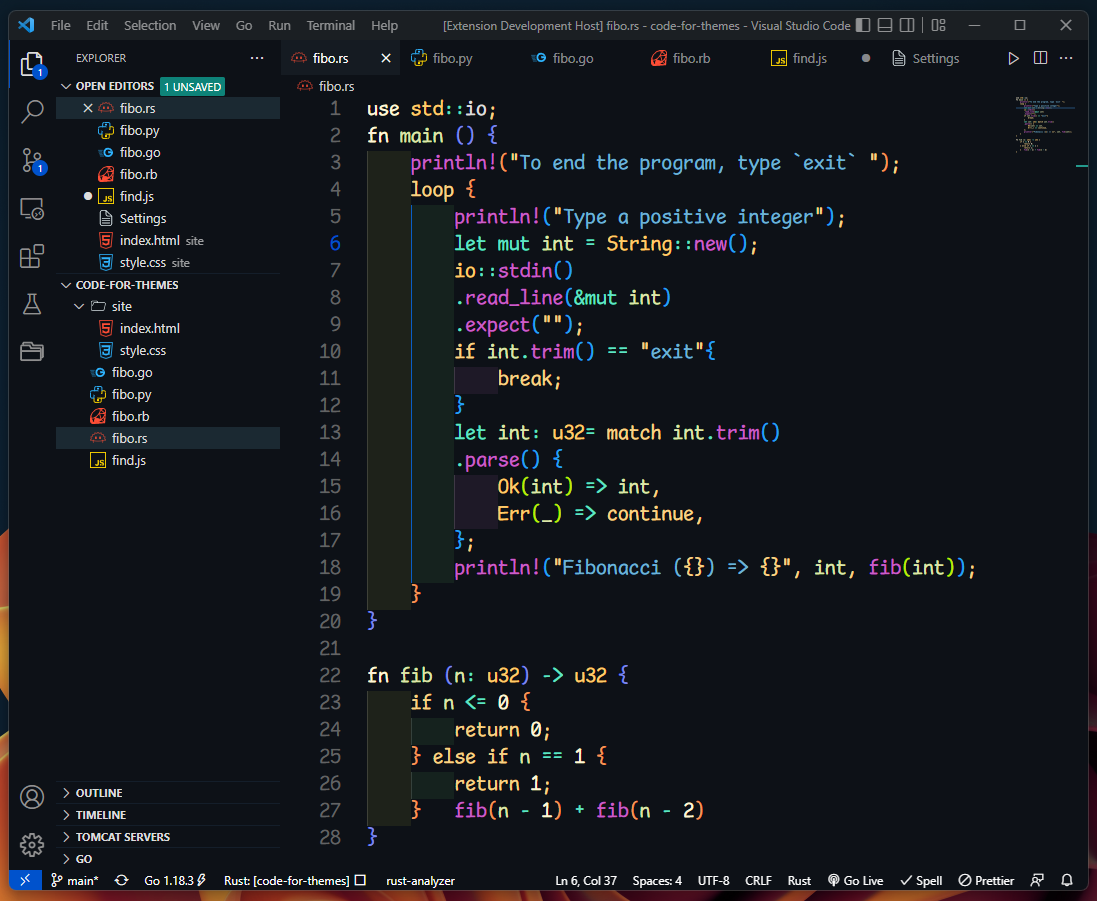
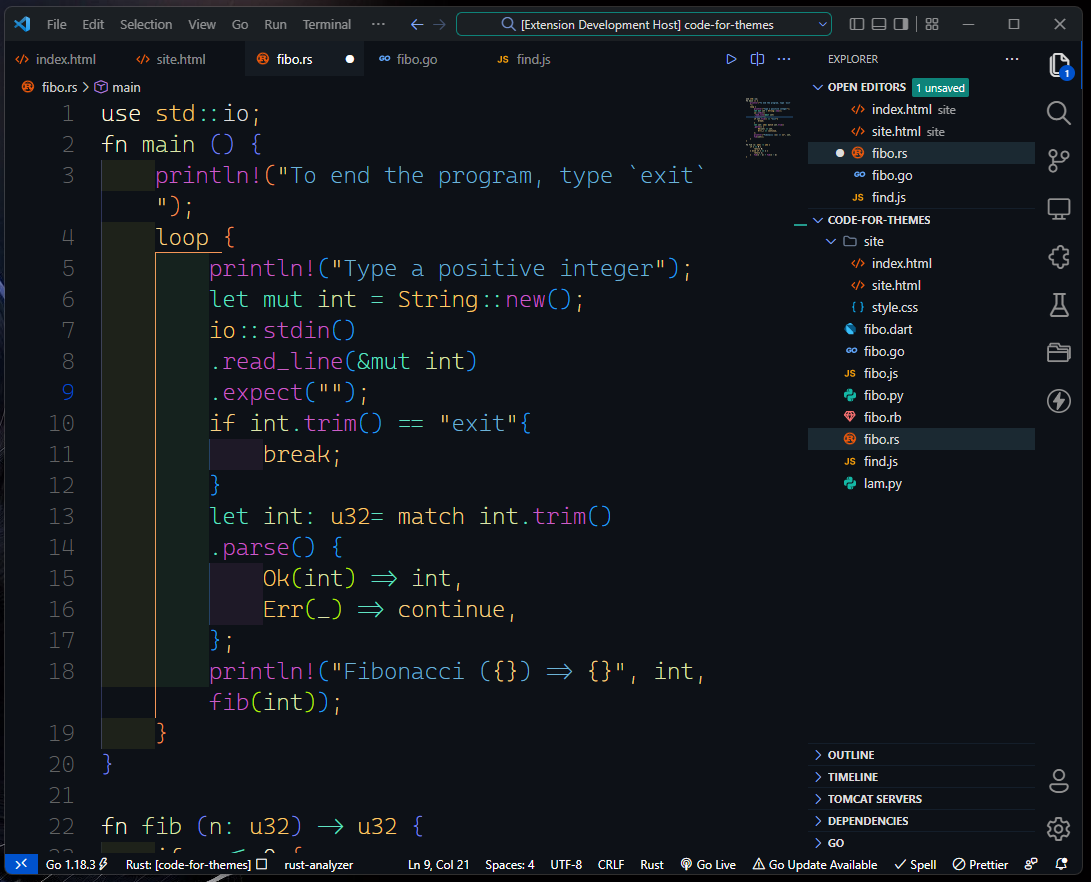
new themes

Changed region(s): [[0.0, 0.0, 1.0, 1.0], [0.4986, 0.8878, 0.5921, 0.9184], [0.6233, 0.8878, 0.6544, 0.9184]]

diff --git a/README.md b/README.md
@@ -2,40 +2,36 @@
 
 **New Theme**
 
-### BlueSpace Sober VIII
+### BlueSpace Sober X
 ![This is a image](https://github.com/yesomac/BlueSpaceVSC/blob/main/img/blue_space_sober10.png?raw=true)
 
+### BlueSpace Sober XI
+![This is a image](https://github.com/yesomac/BlueSpaceVSC/blob/main/img/blue_space_sober11.png?raw=true)
+
+### BlueSpace Sober XII
+![This is a image](https://github.com/yesomac/BlueSpaceVSC/blob/main/img/blue_space_sober10.png?raw=true)
+
+### BlueSpace Sober XIII
+![This is a image](https://github.com/yesomac/BlueSpaceVSC/blob/main/img/blue_space_sober12.png?raw=true)
+
+### BlueSpace Sober XIII
+![This is a image](https://github.com/yesomac/BlueSpaceVSC/blob/main/img/blue_space_sober13.png?raw=true)
+
 ---
+### BlueSpace
+![This is a image]()
 
-### BlueSpace Sober II
-![This is a image](https://github.com/yesomac/BlueSpaceVSC/blob/main/img/blue_space_sober_2.png?raw=true)
+### BlueSpace II
+![This is a image]()
 
-### BlueSpace Sober VI
-![This is a image](https://github.com/yesomac/BlueSpaceVSC/blob/main/img/blue_space_sober_6.png?raw=true)
+### BlueSpace III
+![This is a image]()
 
-### BlueSpace Sober VIII
-![This is a image](https://github.com/yesomac/BlueSpaceVSC/blob/main/img/blue_space-VIII.png?raw=true)
+### BlueSpace IV
+![This is a image]()
 
-### BlueSpace Sober IX
-![This is a image](https://github.com/yesomac/BlueSpaceVSC/blob/main/img/blue_space_sober_IX.png?raw=true)
-
-## BlueSpace
-![This is a image](https://github.com/yesomac/BlueSpaceVSC/blob/main/img/blue_space_1.png?raw=true)
-
-## BlueSpace
-![This is a image](https://github.com/yesomac/BlueSpaceVSC/blob/main/img/blue_space_2.png?raw=true)
-
-## BlueSpace
-![This is a image](https://github.com/yesomac/BlueSpaceVSC/blob/main/img/blue_space_3.png?raw=true)
-
-## BlueSpace
-![This is a image](https://github.com/yesomac/BlueSpaceVSC/blob/main/img/blue_space_4.png?raw=true)
-
-### BlueSpace VII
-![This is a image](https://github.com/yesomac/BlueSpaceVSC/blob/main/img/blue_space_7.png?raw=true)
-
-### BlueSpace XI
-![This is a image](https://github.com/yesomac/BlueSpaceVSC/blob/main/img/blue_space_11.png?raw=true)
+### BlueSpace V
+![This is a image]()
 
 
 ---
